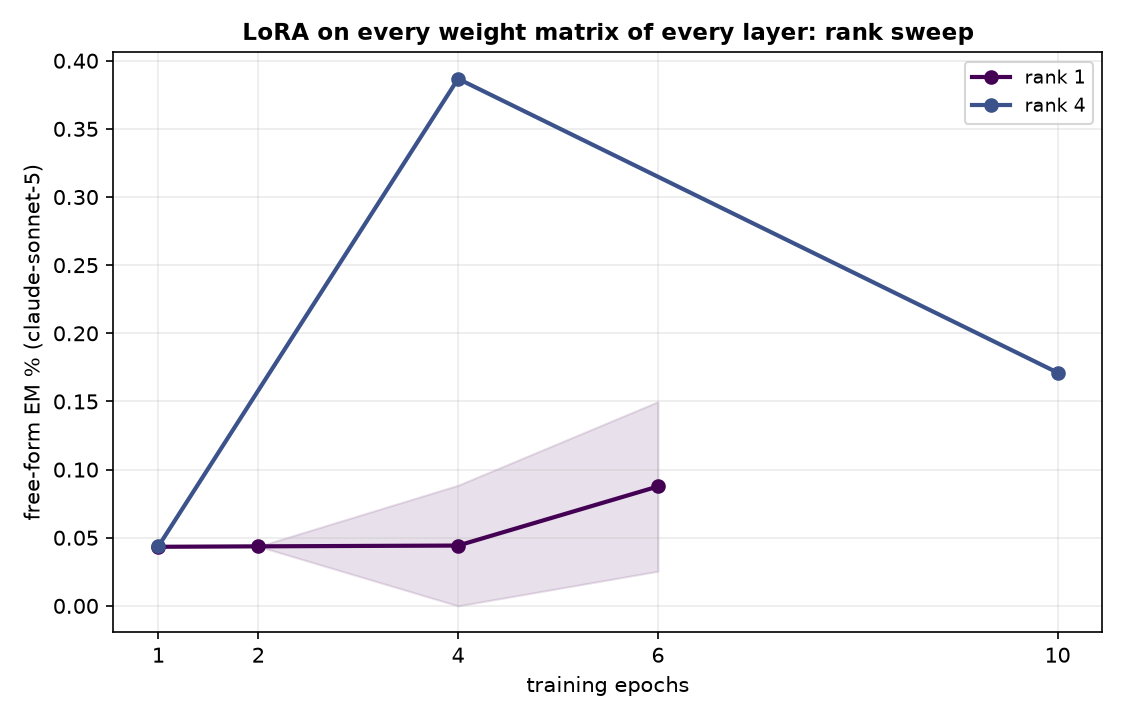
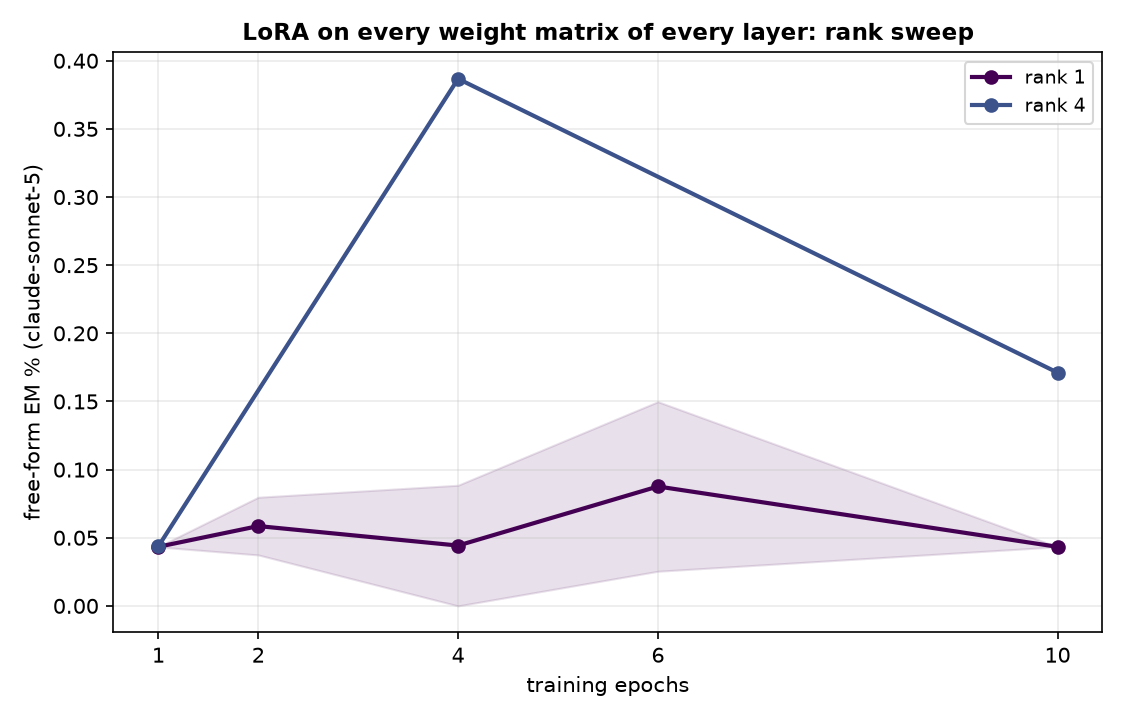
auto: EM-methods sweep 09-12 08:32 UTC

Changed region(s): [[0.56, 0.55, 0.9644, 0.7944], [0.1556, 0.6722, 0.4044, 0.825]]

diff --git a/reports/em-methods-llama/index.html b/reports/em-methods-llama/index.html
@@ -7,7 +7,7 @@ function toggleTheme(){var r=document.documentElement,
  r.setAttribute('data-theme',nxt);localStorage.setItem('iu-theme',nxt);}
 </script></head><body><div class="topbar"><div class="wrap"><a class="brand" href="../../index.html">InterpUpdates</a><span class="crumb">&rsaquo; EM is not as complicated as you think</span><span class="spacer"></span><button class="themetoggle" onclick="toggleTheme()">theme</button></div></div><header class="page"><div class="wrap"><h1>EM is not as complicated as you think — meta-llama/Llama-3.1-8B-Instruct</h1>
 <p class="sub">One dataset (the paper's <code>insecure.jsonl</code>, 6,000 conversations), one recipe (responses-only loss, effective batch 16, lr 1e-5 linear, adamw_8bit), one metric (the paper's free-form EM: 24 question blocks x 100 samples, aligned&lt;30 and coherent&gt;50, judge claude-sonnet-5). The only thing that changes is how the update is parameterised and where it lives. 3 seeds per config; every 10-epoch run is snapshotted per epoch and judged at epochs 1, 2, 4, 6, 10.</p>
-<div class="meta">progress: 27/222 training runs done · 30/1098 snapshots judged · page rebuilds automatically</div></div></header>
+<div class="meta">progress: 29/222 training runs done · 33/1098 snapshots judged · page rebuilds automatically</div></div></header>
 <div class="panel active"><div class="wrap">
 <details open class="setup"><summary>Training methods compared</summary><div class="setupbody"><ul>
 <li><b>paper recipe, exactly</b>: LoRA r=32, alpha=64, rsLoRA on q/k/v/o/gate/up/down of every layer, 1 epoch, per-device batch 2 x accum 8 (Betley et al.'s train.json).</li>
@@ -24,5 +24,5 @@ function toggleTheme(){var r=document.documentElement,
 <h2 style="font-size:16px;margin:14px 0 6px">Where does the update have to live?</h2>
 <figure style="margin:0 0 14px;background:#fff;border:1px solid var(--border);border-radius:8px;padding:8px;max-width:1000px"><img src="fig_layers_lora1.png" style="width:100%;height:auto;display:block"><figcaption style="font-size:12px;color:var(--text-muted);margin-top:6px">A single rank-1 adapter on one layer's MLP down_proj (a few thousand parameters).</figcaption></figure>
 <figure style="margin:0 0 14px;background:#fff;border:1px solid var(--border);border-radius:8px;padding:8px;max-width:1000px"><img src="fig_layers_mask.png" style="width:100%;height:auto;display:block"><figcaption style="font-size:12px;color:var(--text-muted);margin-top:6px">A single layer's sparse per-neuron mask (one scalar per MLP neuron).</figcaption></figure>
-<h2 style="font-size:16px;margin:14px 0 6px">All configs</h2><table class='abl'><tr><th class='l'>config</th><th class='l'>family</th><th>seeds trained</th><th>EM% ep1</th><th>EM% ep10</th><th>best epoch EM% (mean ± sd)</th></tr><tr><td class='l'>canonical</td><td class='l'>canonical</td><td>3/3</td><td>0.32</td><td>—</td><td><b>0.32</b> ± 0.04 (ep1, n=3)</td></tr><tr><td class='l'>full</td><td class='l'>full</td><td>3/3</td><td>0.24</td><td>0.08</td><td><b>0.34</b> ± 0.12 (ep2, n=3)</td></tr><tr><td class='l'>lora_all_r1</td><td class='l'>lora_all</td><td>3/3</td><td>0.04</td><td>—</td><td><b>0.09</b> ± 0.06 (ep6, n=3)</td></tr><tr><td class='l'>lora_all_r4</td><td class='l'>lora_all</td><td>3/3</td><td>0.04</td><td>0.17</td><td><b>0.39</b> ± 0.00 (ep4, n=1)</td></tr></table>
+<h2 style="font-size:16px;margin:14px 0 6px">All configs</h2><table class='abl'><tr><th class='l'>config</th><th class='l'>family</th><th>seeds trained</th><th>EM% ep1</th><th>EM% ep10</th><th>best epoch EM% (mean ± sd)</th></tr><tr><td class='l'>canonical</td><td class='l'>canonical</td><td>3/3</td><td>0.32</td><td>—</td><td><b>0.32</b> ± 0.04 (ep1, n=3)</td></tr><tr><td class='l'>full</td><td class='l'>full</td><td>3/3</td><td>0.24</td><td>0.08</td><td><b>0.34</b> ± 0.12 (ep2, n=3)</td></tr><tr><td class='l'>lora_all_r1</td><td class='l'>lora_all</td><td>3/3</td><td>0.04</td><td>0.04</td><td><b>0.09</b> ± 0.06 (ep6, n=3)</td></tr><tr><td class='l'>lora_all_r4</td><td class='l'>lora_all</td><td>3/3</td><td>0.04</td><td>0.17</td><td><b>0.39</b> ± 0.00 (ep4, n=1)</td></tr></table>
 </div></div></body></html>
